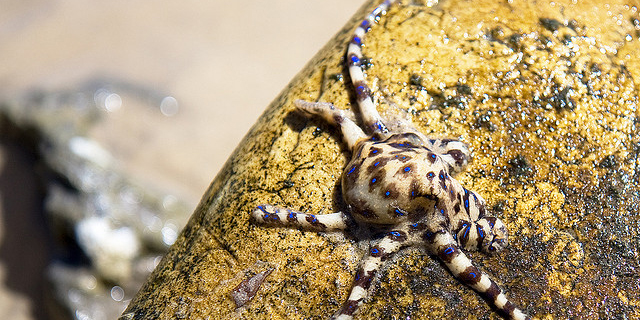
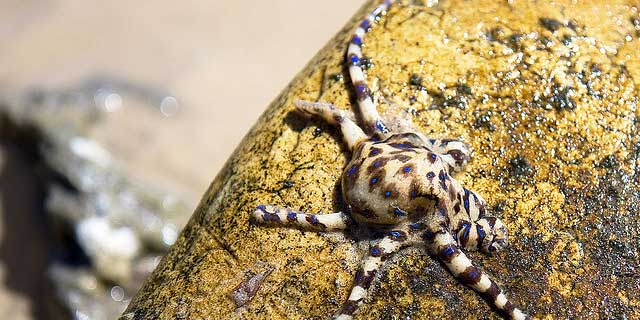
Comressed images

diff --git a/_layouts/default.html b/_layouts/default.html
@@ -2,29 +2,66 @@
 <html>
 <head>
 <meta charset="UTF-8">
-<title>{{page.title}} - Empty Index</title>
-<link href="{{site.baseurl}}/../css/general.css" rel="stylesheet">
+<title>{{page.title}} – Empty Index</title>
+<meta name="handheldfriendly" content="true">
+<meta name="mobileoptimized" content="240">
+<meta name="viewport" content="width=device-width,initial-scale=1">
+<meta name="description" content="Deadly animals in Australia">
+<link href="css/general.css" rel="stylesheet">
+<link href="css/grid.css" rel="stylesheet">
 </head>
 
 <body>
+    
+    <ul class="skiplinks">
+        <li><a href="#main">Skips to primary content</a></li>
+        <li><a href="#navigation">Skips to navigation</a></li>
+        <li><a href="#footer">Skips to footer</a></li>
+    </ul>
 
-		<div class="top-bg"></div>
-            <div class="nav">
-                <img src="http://placehold.it/150x150" class="logo">
-                <div class="navlinks">
-                    <nav>
-                        <a href="">OCEAN</a>
-                        <a href="">REPTILES</a>
-                        <a href="">MAMMALS</a>
-                    </nav>
-                </div>
-            
-            <img src="http://placehold.it/1000x500" class="flex-img">
-        </div>
+<header role="banner">
+	<div class="nav" role="navigation">
+    	<a href="#" rel="home"><img src="images/logo.png" width="150" height="150" class="logo" alt="site logo"></a>
+        	<nav role="navigation" id="navigation">
+            	<ul>
+                    <li><a href="">OCEAN</a>
+                    	<ul>
+                        	<li><a href="blue-ringed-octopus.html">Blue Ringed Octopus</a><li>
+                            <li><a href="great-white-shark.html">Great White Shark</a><li>
+                            <li><a href="blue-ringed-octopus.html">Box Jellyfish</a><li>
+                            <li><a href="blue-ringed-octopus.html">Reef Stonefish</a><li>
+                            <li><a href="great-white-shark.html">Bull Shark</a><li>
+                        </ul>
+                     </li>
+                        
+                    <li><a href="">REPTILE</a>
+                        	<ul>
+                                <li><a href="great-white-shark.html">Brown Snake</a><li>
+                                <li><a href="blue-ringed-octopus.html">Death Adder</a><li>
+                                <li><a href="blue-ringed-octopus.html">King Brown Snake</a><li>
+                            </ul>
+                     </li>
+                            
+                    <li><a href="">BUGS</a>
+                    	<ul>
+                        	<li><a href="great-white-shark.html">Giant Centipede</a><li>
+                            <li><a href="blue-ringed-octopus.html">Bull Ant</a><li>
+                            <li><a href="blue-ringed-octopus.html">Paralysis Tick</a><li>
+                            <li><a href="great-white-shark.html">Honey Bee</a><li>
+                            <li><a href="great-white-shark.html">Black Widow</a><li>
+                            <li><a href="blue-ringed-octopus.html">Funnel Web Spider</a><li>
+                        </ul>
+                    </li>
+                </ul>
+            </nav>
+    </div>
+</header>
 
 {{content}}
 
-	<footer>©Kathryn Hallett</footer>
-
-</body>
-</html>
+	<div role="contentinfo">
+         <footer>
+             <p role="contentinfo">©Australia's Deadliest Animals 2013</p>
+             <a href="#">Copyright</a>
+         </footer>
+	</div>

diff --git a/blue-ringed-octopus.html b/blue-ringed-octopus.html
@@ -21,7 +21,7 @@
 
 <header role="banner">
 	<div class="nav" role="navigation">
-    	<a href="#" rel="home"><img src="images/logo.png" width="150" height="150" class="logo" alt="site logo"></a>
+    	<a href="index.html" rel="home"><img src="images/logo.png" width="150" height="150" class="logo" alt="site logo"></a>
         	<nav role="navigation" id="navigation">
             	<ul>
                     <li><a href="">OCEAN</a>

diff --git a/great-white-shark.html b/great-white-shark.html
@@ -21,7 +21,7 @@
 
 <header role="banner">
 	<div class="nav" role="navigation">
-    	<a href="#" rel="home"><img src="images/logo.png" width="150" height="150" class="logo" alt="site logo"></a>
+    	<a href="index.html" rel="home"><img src="images/logo.png" width="150" height="150" class="logo" alt="site logo"></a>
         	<nav role="navigation" id="navigation">
             	<ul>
                     <li><a href="">OCEAN</a>

diff --git a/index.html b/index.html
@@ -21,7 +21,7 @@
 
 <header role="banner">
 	<div class="nav" role="navigation">
-    	<a href="#" rel="home"><img src="images/logo.png" width="150" height="150" class="logo" alt="site logo"></a>
+    	<a href="index.html" rel="home"><img src="images/logo.png" width="150" height="150" class="logo" alt="site logo"></a>
         	<nav role="navigation" id="navigation">
             	<ul>
                     <li><a href="">OCEAN</a>
